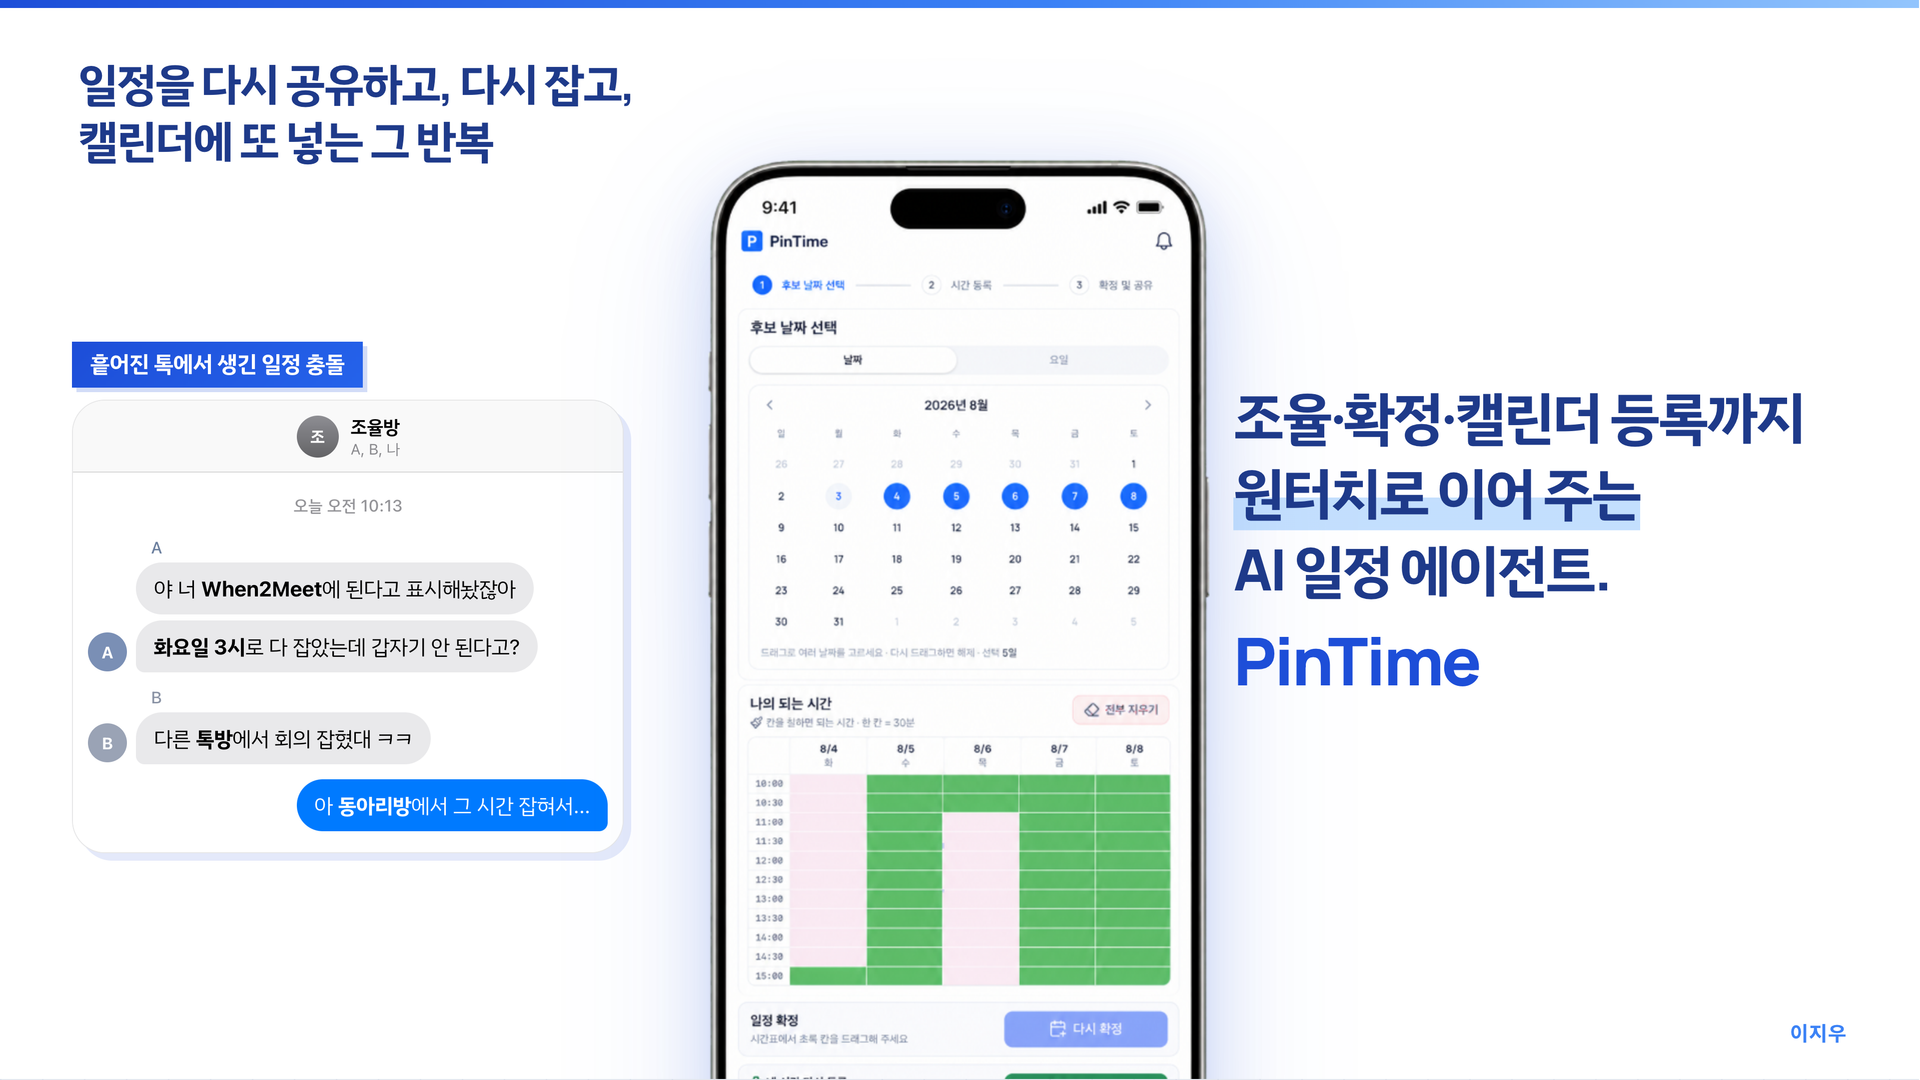
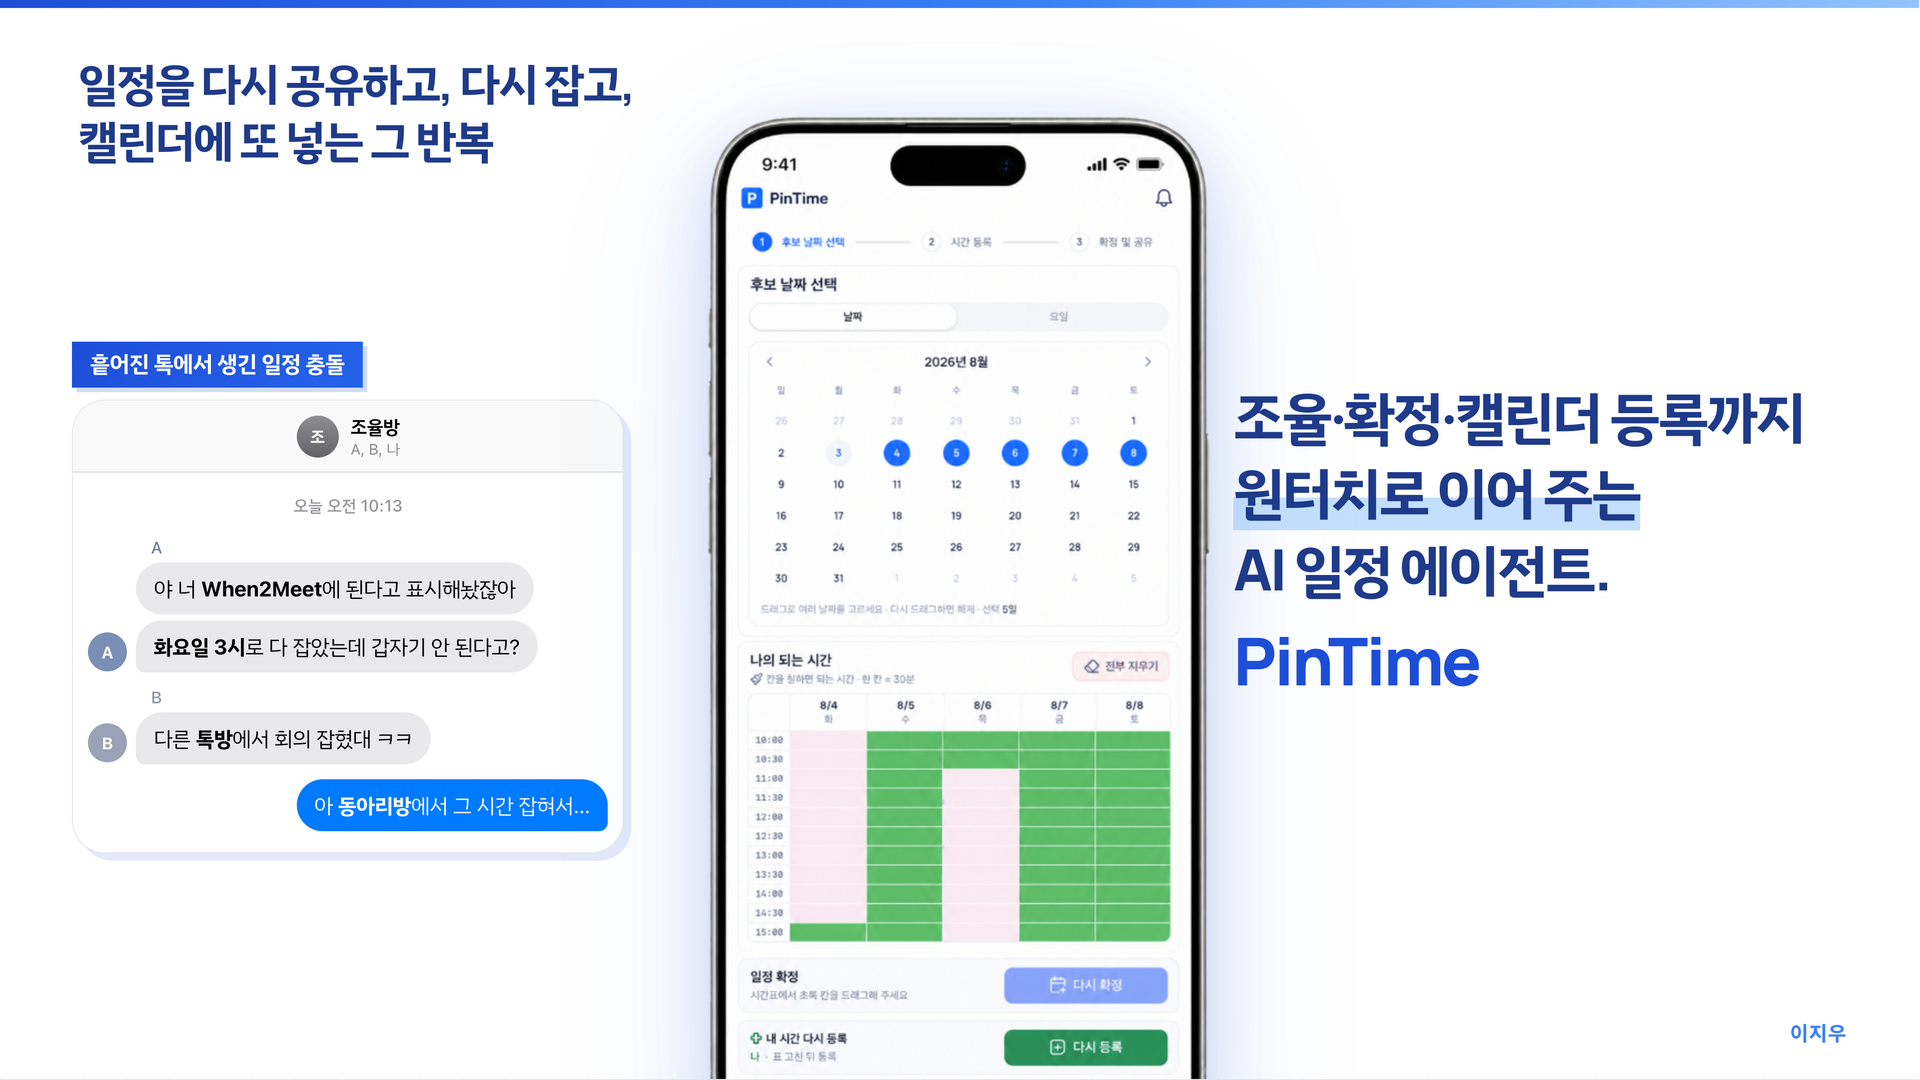
Add frustrated caption under the cover phone.

Changed region(s): [[0.375, 0.4889, 0.625, 1.0], [0.3438, 0.0917, 0.6562, 0.3056], [0.4375, 0.3667, 0.5938, 0.4889]]

diff --git a/public/pitch.html b/public/pitch.html
@@ -1445,12 +1445,12 @@
         align-items: center;
         justify-content: center;
         min-height: 0;
-        gap: 0;
+        gap: 10px;
         align-self: center;
         justify-self: center;
         overflow: visible;
         width: 100%;
-        transform: translateY(60px);
+        transform: translateY(48px);
       }
 
       .cover-phone {
@@ -1470,6 +1470,19 @@
         height: auto;
         object-fit: cover;
         object-position: top center;
+      }
+
+      .cover-phone-caption {
+        margin: 0;
+        max-width: 5.4in;
+        text-align: center;
+        font-family: Manrope, 'IBM Plex Sans KR', sans-serif;
+        font-size: 18px;
+        font-weight: 700;
+        letter-spacing: -0.03em;
+        line-height: 1.35;
+        color: #334155;
+        word-break: keep-all;
       }
 
       .cover-tagline {
@@ -2519,6 +2532,9 @@
                   alt="PinTime 앱 화면"
                 />
               </div>
+              <p class="cover-phone-caption">
+                하… 이런 일정 문제, 어떻게 해결해야 하죠?
+              </p>
             </div>
           </div>
 
